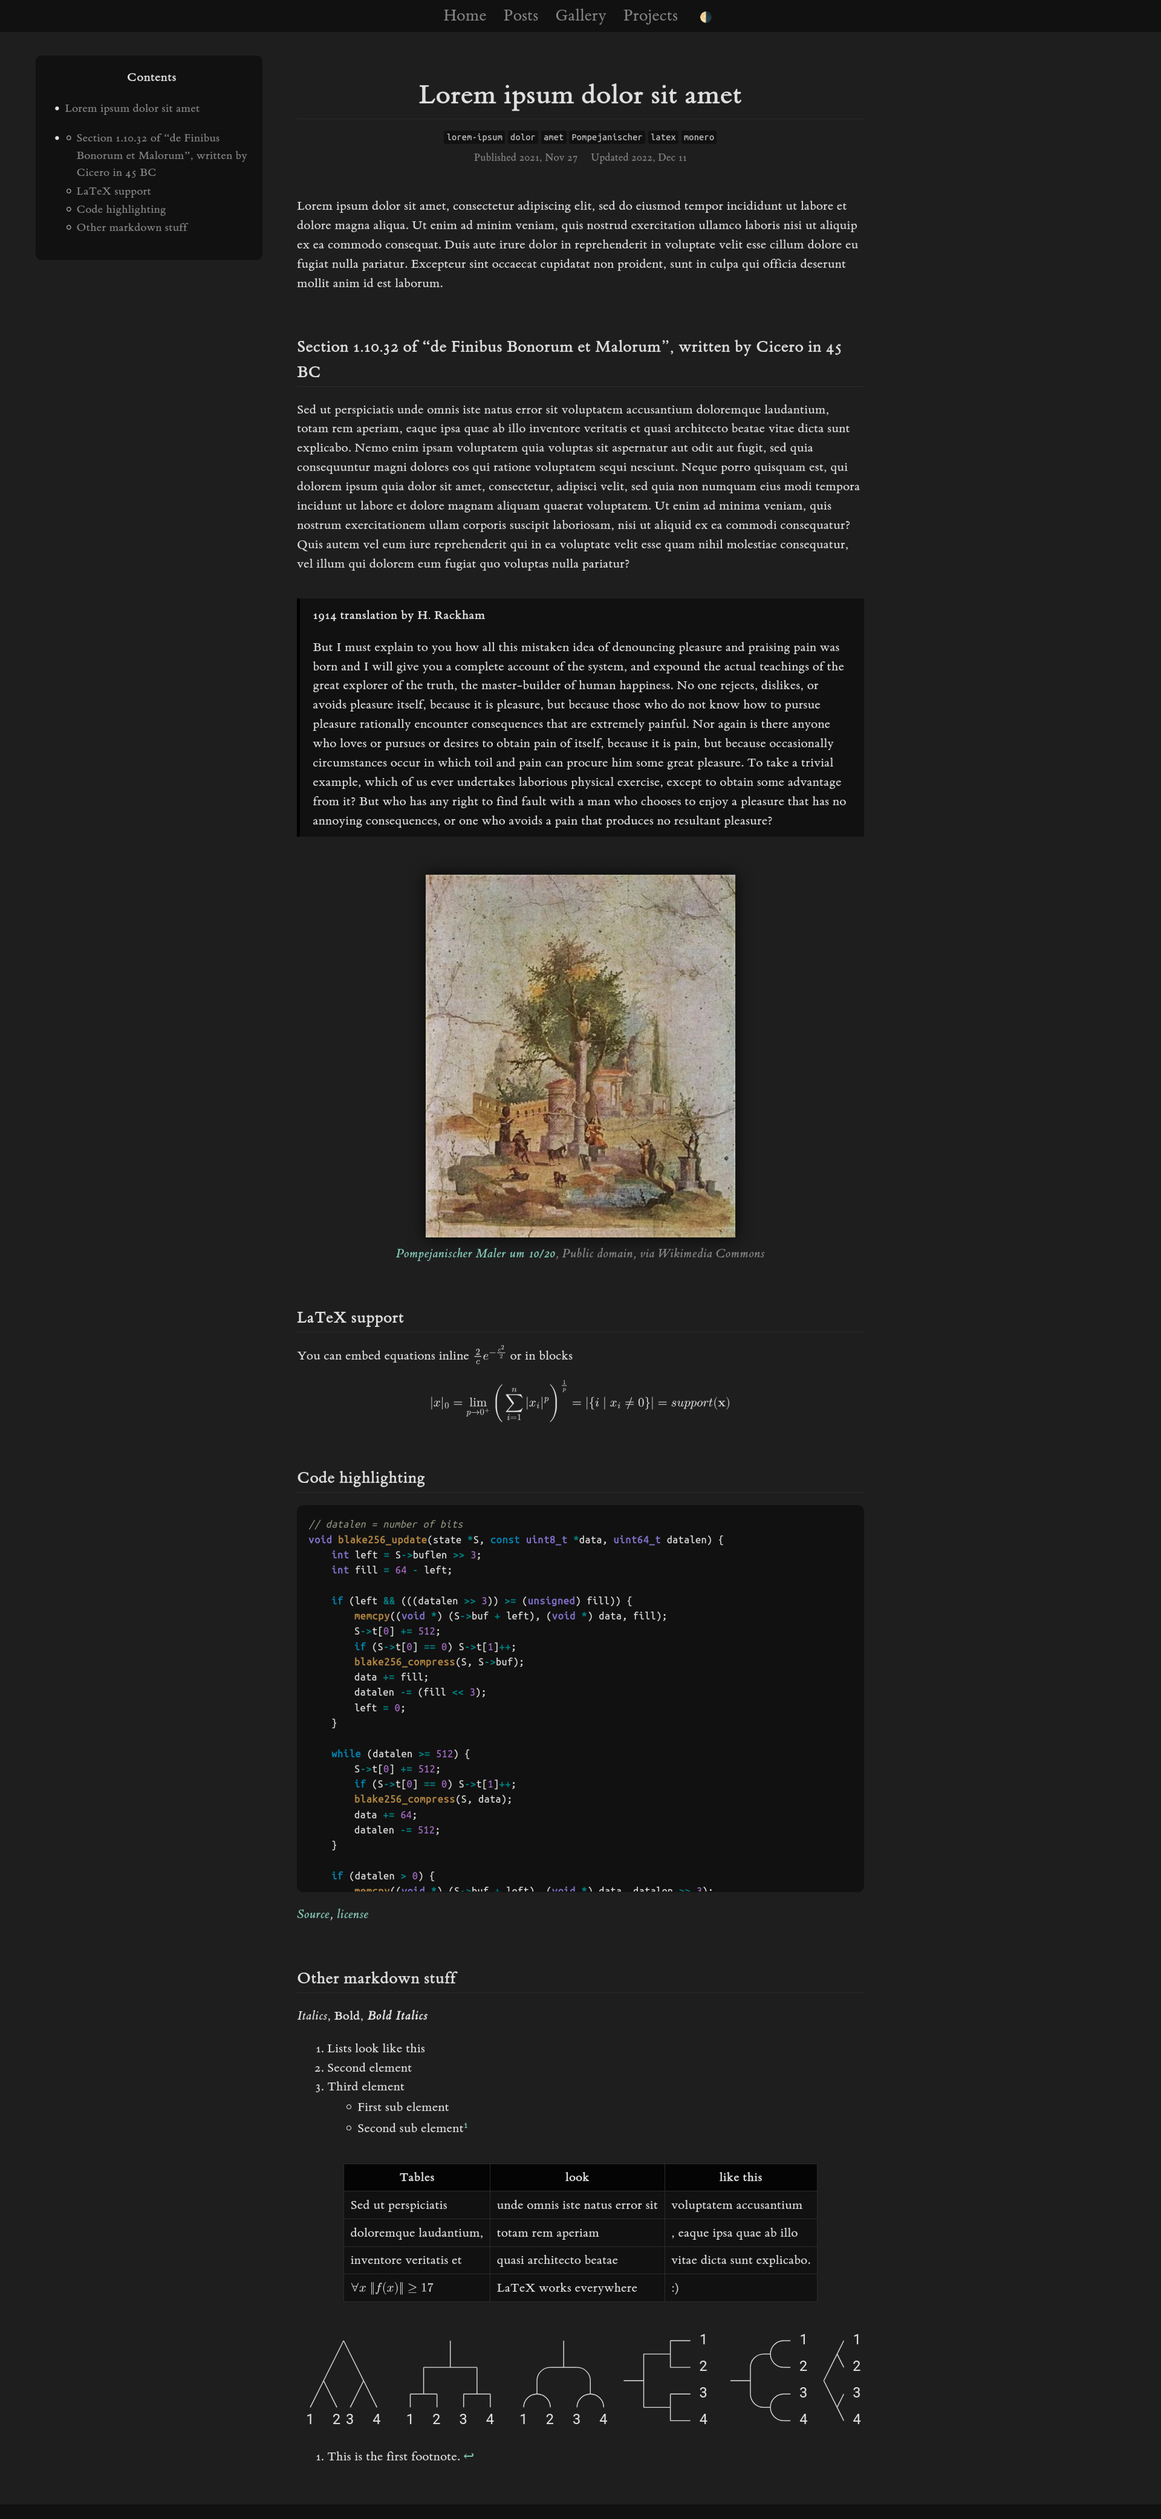
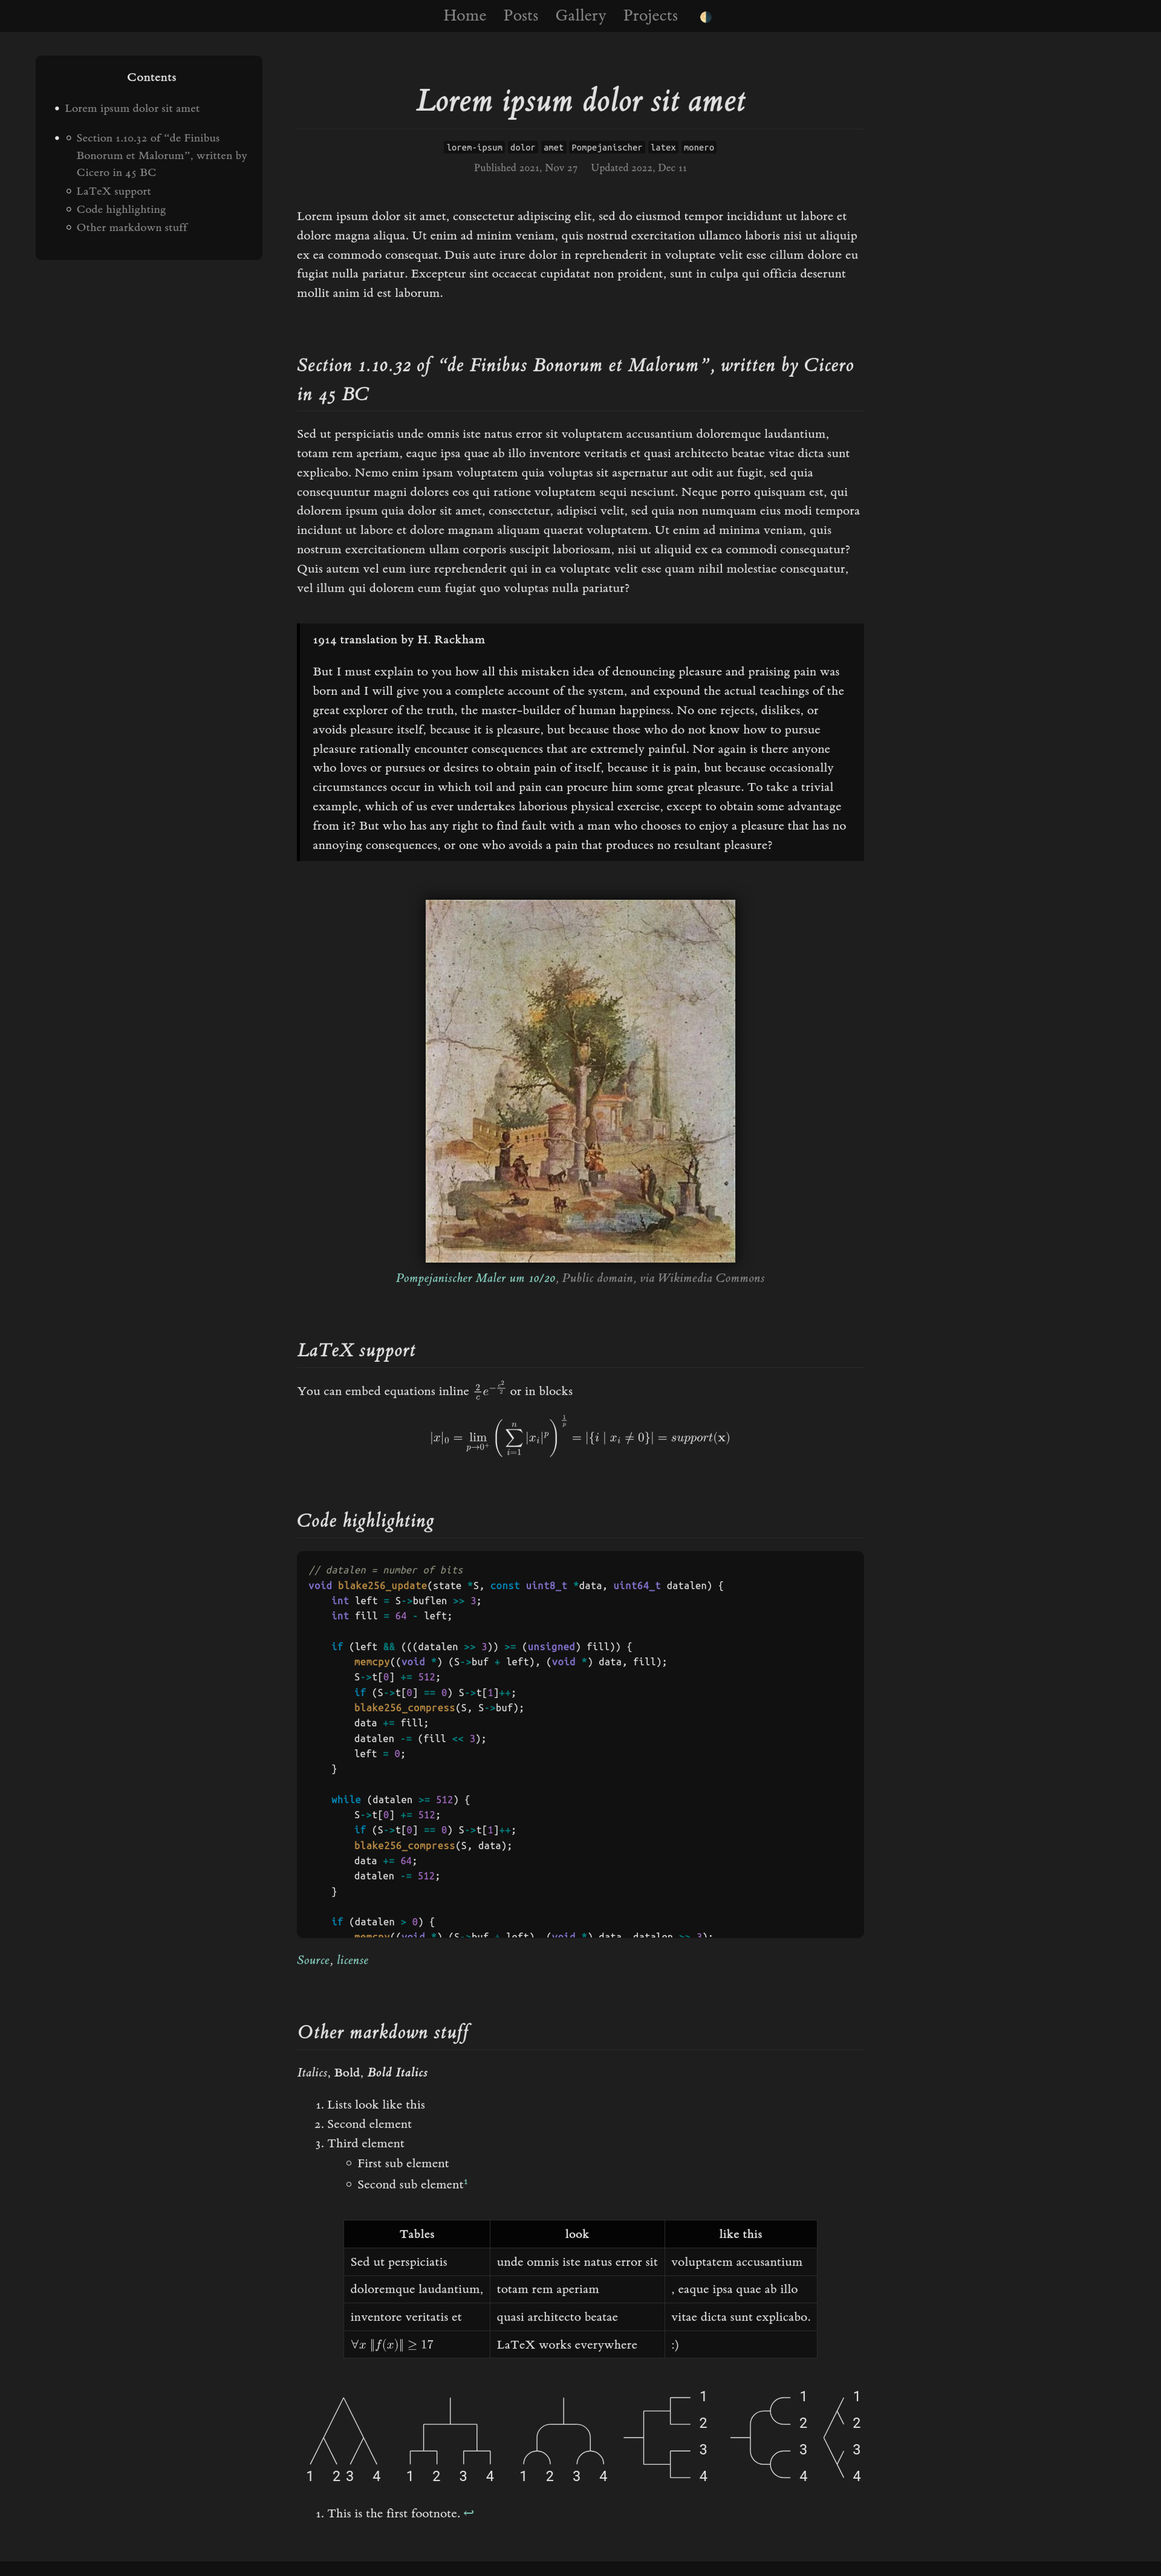
italicize titles

diff --git a/assets/scss/malis/_base.scss b/assets/scss/malis/_base.scss
@@ -132,17 +132,18 @@
     color: $heading-text;
     font-family: $heading-font-family;
     font-weight: $heading-font-weight;
+    font-style: italic;
     padding-bottom: 0.1em;
   }
 
   h1, h2 { border-bottom: 1px solid $bg-1;}
 
-  h1 { font-size: 1.6em; }
-  h2 { font-size: 1.3em; }
-  h3 { font-size: 1.1em; }
-  h4 { font-size: 0.9em; }
-  h5 { font-size: 0.6em; }
-  h6 { font-size: 0.4em; }
+  h1 { font-size: 1.8em; }
+  h2 { font-size: 1.5em; }
+  h3 { font-size: 1.3em; }
+  h4 { font-size: 1.1em; }
+  h5 { font-size: 0.8em; }
+  h6 { font-size: 0.5em; }
 
   /*
   Breaks
@@ -332,17 +333,18 @@
     color: $heading-text-dark;
     font-family: $heading-font-family-dark;
     font-weight: $heading-font-weight-dark;
+    font-style: italic;
     padding-bottom: 0.1em;
   }
 
   h1, h2 { border-bottom: 1px solid $bg-1-dark;}
 
-  h1 { font-size: 1.6em; }
-  h2 { font-size: 1.3em; }
-  h3 { font-size: 1.1em; }
-  h4 { font-size: 0.9em; }
-  h5 { font-size: 0.6em; }
-  h6 { font-size: 0.4em; }
+  h1 { font-size: 1.8em; }
+  h2 { font-size: 1.5em; }
+  h3 { font-size: 1.3em; }
+  h4 { font-size: 1.1em; }
+  h5 { font-size: 0.8em; }
+  h6 { font-size: 0.5em; }
 
   /*
   Breaks

diff --git a/assets/scss/malis/_layout.scss b/assets/scss/malis/_layout.scss
@@ -85,7 +85,8 @@
     text-align: center;
     margin-bottom: 0.25em;
     font-family: $heading-font-family;
-    font-size: 2.2em;
+    font-size: 2.5em;
+    letter-spacing: -0.5px;
     font-weight: $title-font-weight;
     border-bottom: 1px solid $bg-1;
   }
@@ -131,7 +132,7 @@
       margin-top: 0;
       letter-spacing: -0.5px;
       border-bottom: none;
-      font-size: 1.6em;
+      font-size: 1.8em;
       font-weight: 600;
     }
 
@@ -429,7 +430,8 @@
     text-align: center;
     margin-bottom: 0.25em;
     font-family: $heading-font-family-dark;
-    font-size: 2.2em;
+    font-size: 2.5em;
+    letter-spacing: -0.5px;
     font-weight: $title-font-weight-dark;
     border-bottom: 1px solid $bg-1-dark;
   }
@@ -475,7 +477,7 @@
       margin-top: 0;
       letter-spacing: -0.5px;
       border-bottom: none;
-      font-size: 1.6em;
+      font-size: 1.8em;
       font-weight: 600;
     }
   

diff --git a/README.md b/README.md
@@ -23,7 +23,7 @@ sudo pacman -S hugo
 Then install this template:
 
 ```bash
-git clone https://github.com/Infinitifall/Succulent
+git clone https://github.com/Infinitifall/Succulent --depth=1
 cd Succulent
 
 # serve website (with drafts)
